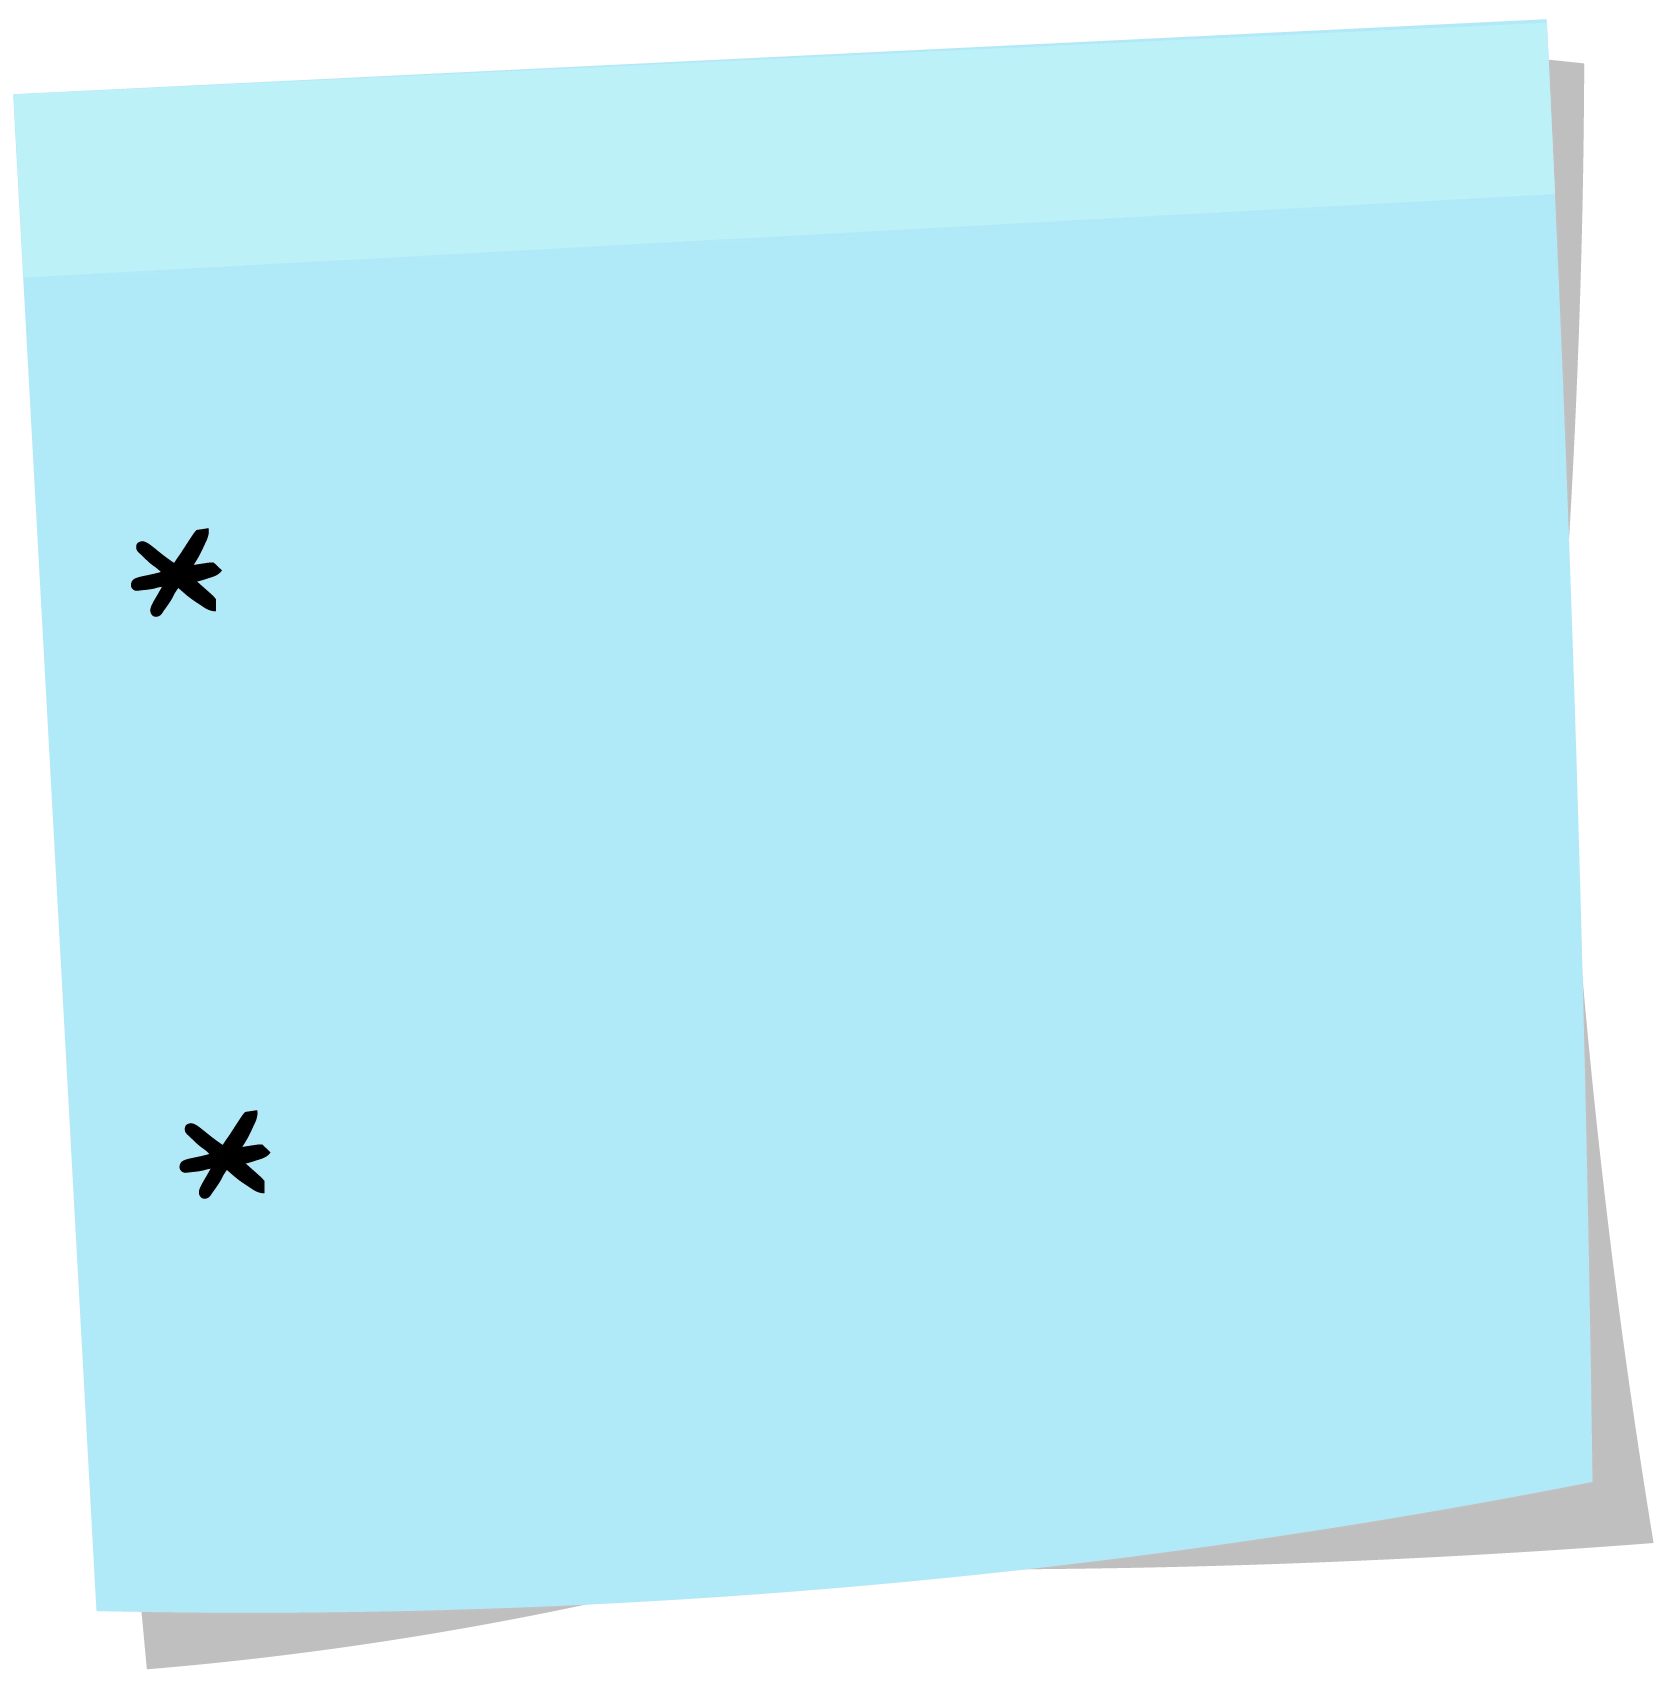
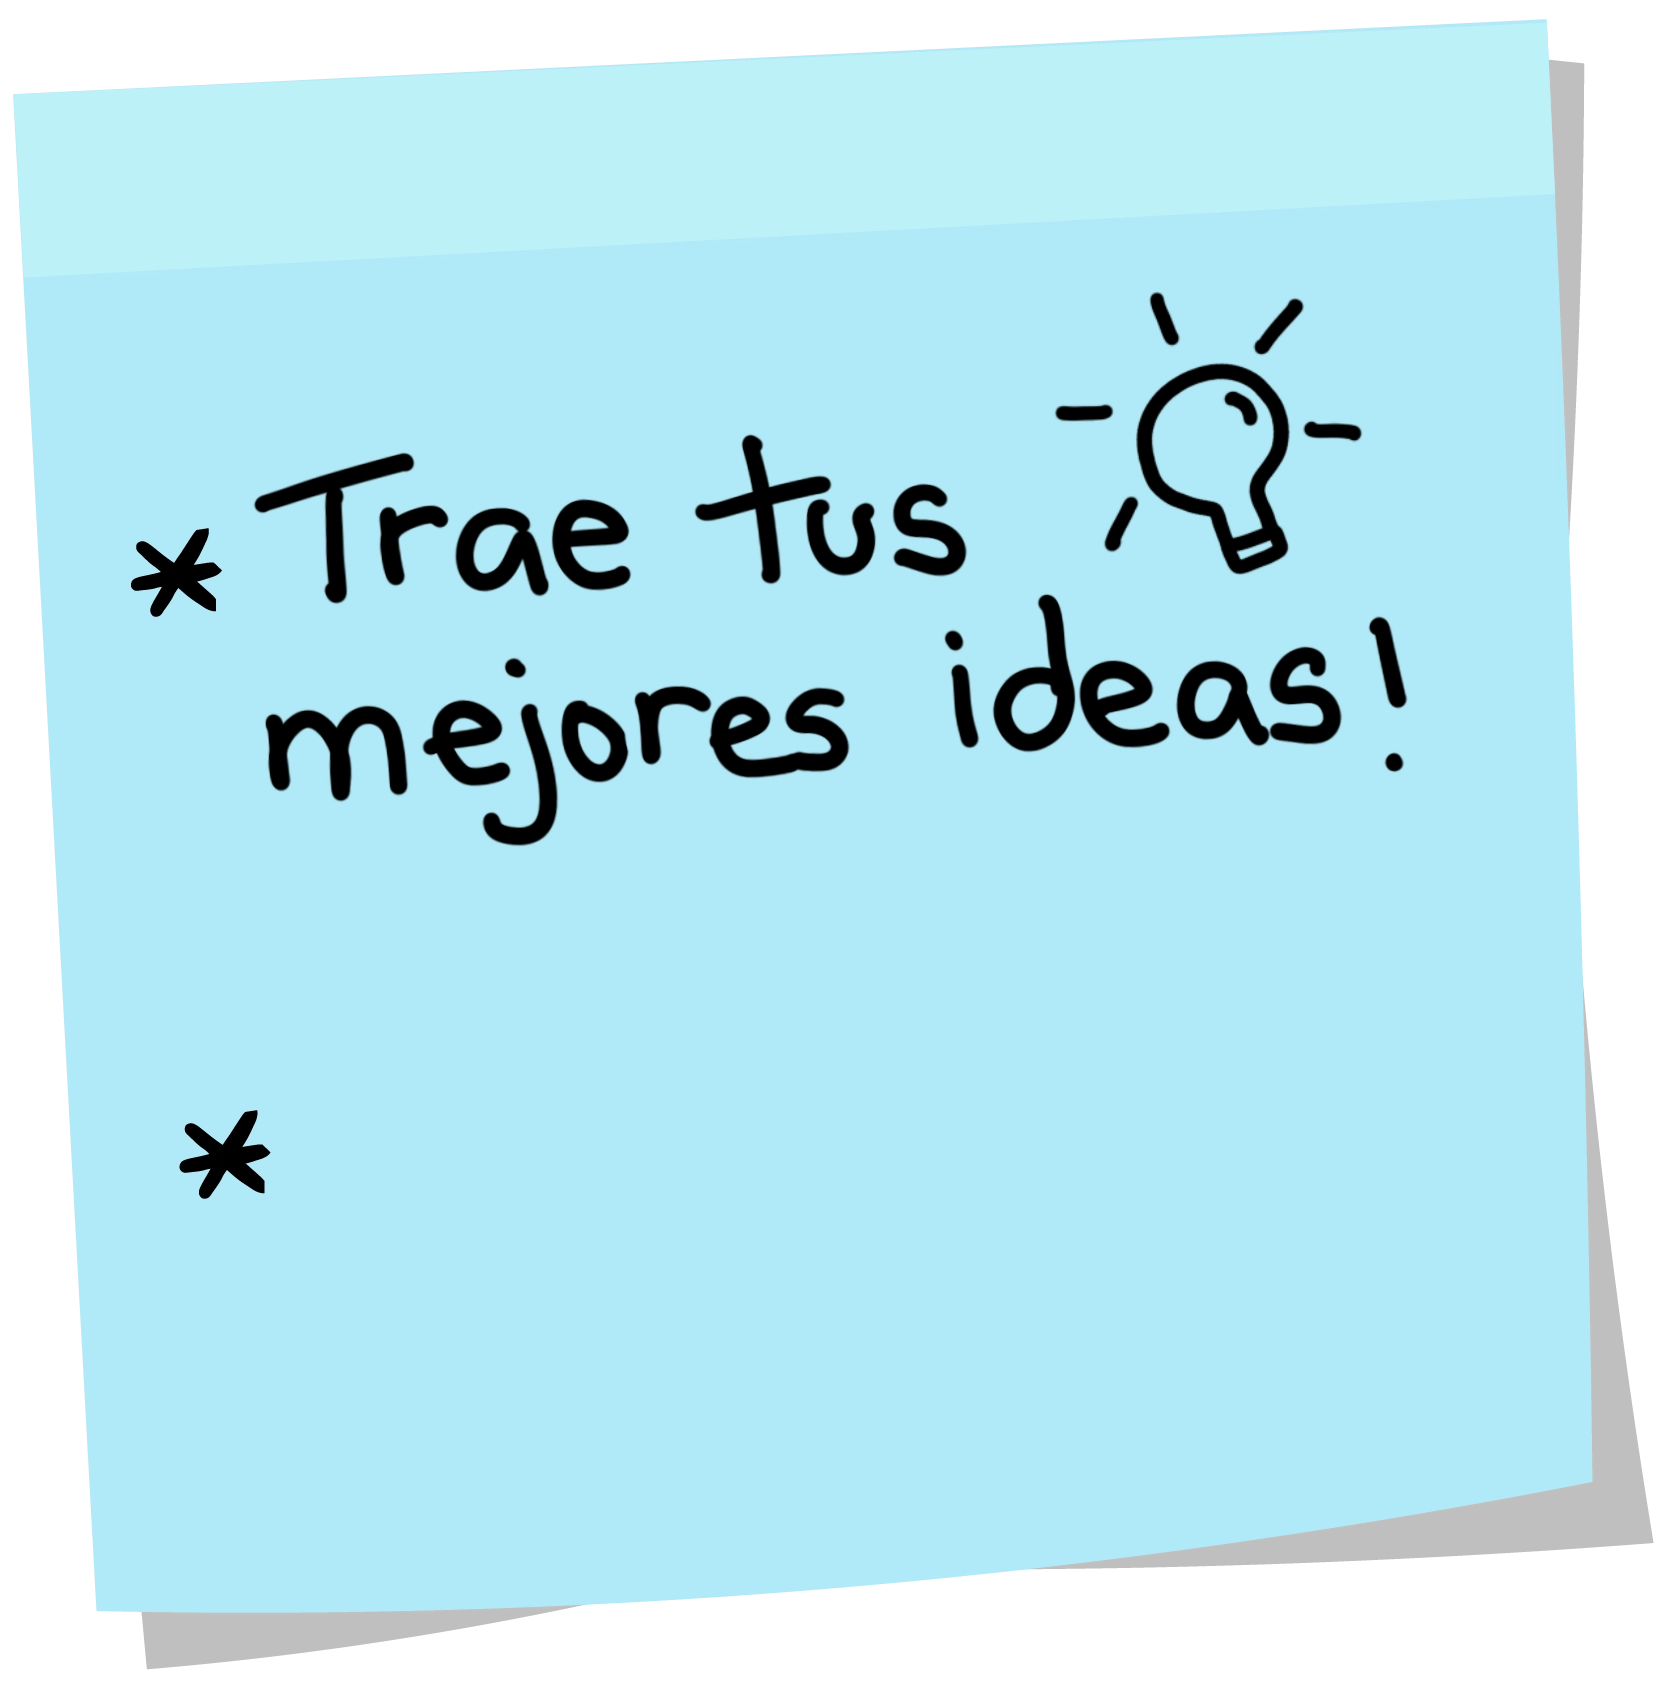
chore: new images added

diff --git a/apps/spain-tour-landing/src/app/components/core/fourth-event.component.ts b/apps/spain-tour-landing/src/app/components/core/fourth-event.component.ts
@@ -122,11 +122,10 @@ import { ChangeDetectionStrategy, Component } from '@angular/core';
             alt="Information text on a paper"
           />
         </div>
-
         <!-- Post-it information -->
         <div class="relative w-[22vw] mt-[2vw] ml-[5vw] -rotate-6 order-1">
           <img
-            src="https://res.cloudinary.com/pwcaguerrero/image/upload/w_422/q_auto/f_auto/v1692020336/post_it_blue_1_i3wxu2.png"
+            src="https://res.cloudinary.com/pwcaguerrero/image/upload/w_422/q_auto/f_auto/v1692022361/post_it_blue_dhdpxp.webp"
             alt="blue post-it with some information"
             class="relative w-full"
           />

diff --git a/apps/spain-tour-landing/src/app/components/core/third-event.component.ts b/apps/spain-tour-landing/src/app/components/core/third-event.component.ts
@@ -123,11 +123,10 @@ import { ChangeDetectionStrategy, Component } from '@angular/core';
             alt="Information text on a paper"
           />
         </div>
-
         <!-- Post-it information -->
         <div class="relative w-[22vw] mt-[2vw] ml-[5vw] rotate-6">
           <img
-            src="https://res.cloudinary.com/pwcaguerrero/image/upload/w_422/q_auto/f_auto/v1692020336/post_it_pink_1_aul69g.png"
+            src="https://res.cloudinary.com/pwcaguerrero/image/upload/w_422/q_auto/f_auto/v1692022362/post_it_pink_jz0own.webp"
             alt="pink post-it with some information"
             class="relative w-full"
           />
